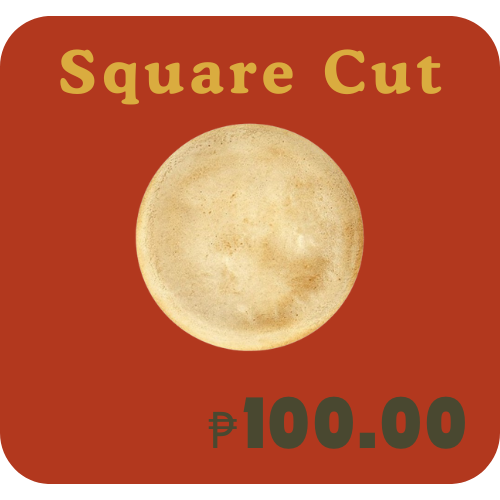
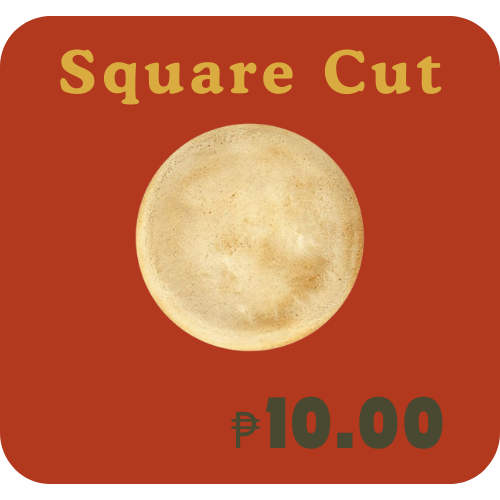
LYKA PROGRESS
Mga kulang pa:
1. Add to Shopping Cart
2. Add to Favorites

Changed region(s): [[0.42, 0.78, 0.93, 0.9]]

diff --git a/server/scripts/createPizza.js b/server/scripts/createPizza.js
@@ -10,6 +10,70 @@ document.addEventListener("DOMContentLoaded", function() {
     let currentPizzaSize = "400px"; // Default size
     const selectedToppings = {}; // Track selected toppings to toggle on/off
 
+    // Variables to store choices
+    let chosenCrust = '';
+    let chosenSize = '';
+    let chosenToppings = [];
+    let chosenSlice = '';
+
+    // Prices for options
+    const prices = {
+        crust: {
+            thickCrustC: 80.00,
+            thinCrustC: 100.00
+        },
+        size: {
+            smallC: 19.00,
+            regularC: 29.00,
+            largeC: 49.00,
+            familyC: 64.00
+        },
+        toppings: {
+            pepperoniC: 30.00,
+            mushroomC: 25.00,
+            pineappleC: 20.00,
+            olivesC: 25.00,
+            baconC: 35.00,
+            shrimpC: 40.00
+        },
+        slice: {
+            triangleC: 5.00,
+            squareC: 10.00
+        }
+    };
+
+    // Assign descriptions for each section's options
+    const optionDescriptions = {
+        crust: {
+            thickCrustC: "Thick Crust",
+            thinCrustC: "Thin Crust"
+        },
+        size: {
+            smallC: "Small Size",
+            regularC: "Regular Size",
+            largeC: "Large Size",
+            familyC: "Family-Size"
+        },
+        toppings: {
+            pepperoniC: "Pepperoni",
+            mushroomC: "Mushroom",
+            pineappleC: "Pineapple",
+            olivesC: "Olives",
+            baconC: "Bacon",
+            shrimpC: "Shrimp"
+        },
+        slice: {
+            triangleC: "Triangle Cut",
+            squareC: "Square Cut"
+        }
+    };
+
+    // Variables to track selections
+    let selectedCrustPrice = 0;
+    let selectedSizePrice = 0;
+    let selectedToppingsPrice = 0;
+    let selectedSlicePrice = 0;
+
     function updateProgressBar() {
         const progressPercentage = ((progressStep + 1) / totalSteps) * 100;
         progress.style.width = `${progressPercentage}%`;
@@ -94,15 +158,20 @@ document.addEventListener("DOMContentLoaded", function() {
 
     let selectedCrustImageSrc = '/img/pizzaur.png';
 
+    // Update crust selection
     thickCrustOption.addEventListener("click", () => {
+        chosenCrust = optionDescriptions.crust.thickCrustC;
         console.log('Thick Crust option is selected');
         selectedCrustImageSrc = '/img/pizzaur.png';
+        selectedCrustPrice = prices.crust.thickCrustC;
         changeImageWithRotation('/img/ThickCrust.png');
     });
 
     thinCrustOption.addEventListener("click", () => {
+        chosenCrust = optionDescriptions.crust.thinCrustC;
         console.log("Thin Crust option selected");
         selectedCrustImageSrc = '/img/pizzaurt.png';
+        selectedCrustPrice = prices.crust.thinCrustC;
         changeImageWithRotation('/img/ThinCrust.png');
     });
 
@@ -128,6 +197,8 @@ document.addEventListener("DOMContentLoaded", function() {
         option.addEventListener('click', () => {
             const section3PizzaContainer = document.querySelector('#section3 #pizza');
             const toppingSrc = getToppingImageSrc(option.id);
+            const toppingId = option.id.replace('Option', 'C');
+            const toppingName = optionDescriptions.toppings[toppingId];
 
             if (toppingSrc) {
                 if (selectedToppings[option.id]) {
@@ -135,7 +206,10 @@ document.addEventListener("DOMContentLoaded", function() {
                     const existingTopping = document.getElementById(`topping-${option.id}`);
                     if (existingTopping) {
                         section3PizzaContainer.removeChild(existingTopping);
+                        selectedToppingsPrice -= prices.toppings[toppingId];
+                        chosenToppings = chosenToppings.filter(t => t !== `${toppingName} (${toppingSrc})`);
                         delete selectedToppings[option.id];
+                        console.log(`Removed ${toppingId}, updated toppings price: ${selectedToppingsPrice}`);
                     }
                 } else {
                     // Add new topping
@@ -145,7 +219,10 @@ document.addEventListener("DOMContentLoaded", function() {
                     setToppingSize(toppingImage); // Adjust size based on current pizza size
                     toppingImage.id = `topping-${option.id}`;
                     section3PizzaContainer.appendChild(toppingImage);
+                    selectedToppingsPrice += prices.toppings[toppingId];
+                    chosenToppings.push(`${toppingName} (${toppingSrc})`);
                     selectedToppings[option.id] = true;
+                    console.log(`Added ${toppingId}, updated toppings price: ${selectedToppingsPrice}`);
                 }
             }
         });
@@ -177,11 +254,15 @@ document.addEventListener("DOMContentLoaded", function() {
         family: "480px"
     };
 
+    // Update size selection
     document.querySelectorAll('.size-option img').forEach(option => {
         option.addEventListener('click', () => {
-            const size = sizeOptions[option.id.replace('Option', '').toLowerCase()];
-            console.log(`${option.alt} size selected`);
-            changePizzaSize(size);
+            const sizeName = option.alt;
+            const sizeImage = option.src.split('/').pop();
+            chosenSize = `${optionDescriptions.size[sizeImage.split('.')[0]]}`;
+            console.log(`${sizeName} size selected`);
+            selectedSizePrice = prices.size[option.id.replace('Option', 'C')];
+            changePizzaSize(sizeOptions[option.id.replace('Option', '').toLowerCase()]);
         });
     });
 
@@ -255,31 +336,72 @@ document.addEventListener("DOMContentLoaded", function() {
         const squareOption = document.getElementById('squareOption');
 
         triangleOption.addEventListener('click', () => {
+            chosenSlice = optionDescriptions.slice.triangleC;
+            selectedSlicePrice = prices.slice.triangleC;
+            console.log('Triangle slice selected, price:', selectedSlicePrice);
             overlayCutImage(section4PizzaContainer, '/img/TriCut.png');
         });
 
         squareOption.addEventListener('click', () => {
+            chosenSlice = optionDescriptions.slice.squareC;
+            selectedSlicePrice = prices.slice.squareC;
+            console.log('Square slice selected, price:', selectedSlicePrice);
             overlayCutImage(section4PizzaContainer, '/img/SquCut.png');
         });
+    }
+
+    function updateReviewDetails() {
+        const tableBody = document.getElementById('review-table-body');
+        tableBody.innerHTML = ''; // Clear previous rows
+
+        const items = [
+            { item: 'Crust', specification: selectedCrustPrice === prices.crust.thickCrustC ? 'Thick' : 'Thin', price: selectedCrustPrice.toFixed(2) },
+            { item: 'Size', specification: selectedSizePrice === prices.size.smallC ? 'Small' : selectedSizePrice === prices.size.regularC ? 'Regular' : selectedSizePrice === prices.size.largeC ? 'Large' : 'Family', price: selectedSizePrice.toFixed(2) },
+            ...Object.keys(selectedToppings).map(topping => ({
+                item: 'Topping',
+                specification: topping.replace('Option', ''),
+                price: prices.toppings[topping.replace('Option', 'C')].toFixed(2)
+            })),
+            { item: 'Slice', specification: selectedSlicePrice === prices.slice.triangleC ? 'Triangle' : 'Square', price: selectedSlicePrice.toFixed(2) }
+        ];
+
+        items.forEach(item => {
+            const row = document.createElement('tr');
+            row.innerHTML = `
+                <td>${item.item}</td>
+                <td>${item.specification}</td>
+                <td>${item.price}</td>
+            `;
+            tableBody.appendChild(row);
+        });
+
+        const totalPrice = selectedCrustPrice + selectedSizePrice + selectedToppingsPrice + selectedSlicePrice;
+        const totalRow = document.createElement('tr');
+        totalRow.classList.add('total-price-row');
+        totalRow.innerHTML = `
+            <td colspan="2">Total Price</td>
+            <td>₱${totalPrice.toFixed(2)}</td>
+        `;
+        tableBody.appendChild(totalRow);
     }
 
     function updateSection5Image() {
         const section5PizzaContainer = document.querySelector('#section5 #pizza');
         section5PizzaContainer.innerHTML = ''; // Clear any existing elements
-    
+
         // Clone the current pizza image from Section 4 and add it to Section 5
         const section4PizzaImage = document.getElementById('custom-pizza4');
         const clonedPizzaImage = section4PizzaImage.cloneNode(true);
         clonedPizzaImage.id = 'custom-pizza5';
         section5PizzaContainer.appendChild(clonedPizzaImage);
-    
+
         // Clone each topping from Section 4 and add it to Section 5
         const section4Toppings = document.querySelectorAll('#section4 .topping-overlay');
         section4Toppings.forEach(topping => {
             const clonedTopping = topping.cloneNode(true);
             section5PizzaContainer.appendChild(clonedTopping);
         });
-    
+
         // Clone any cut overlay from Section 4 and add it to Section 5
         const section4CutOverlay = document.querySelector('#section4 .cut-overlay');
         if (section4CutOverlay) {
@@ -287,12 +409,19 @@ document.addEventListener("DOMContentLoaded", function() {
             section5PizzaContainer.appendChild(clonedCutOverlay);
         }
     }
-    
-    // Update Section 5 when moving to it
+
+    // Log final summary when moving to Section 5
     nextButtons.forEach(nextButton => {
         nextButton.addEventListener('click', () => {
             if (progressStep === 3) {
                 updateSection5Image();
+                updateReviewDetails();
+
+                // Log summary in Section 5
+                const formattedToppings = chosenToppings.map(topping => topping.split(' ')[0]); // Extracts just the topping names
+                const summarySentence = `You have selected ${chosenCrust}, ${chosenSize}, toppings (${formattedToppings.join(', ')}), and ${chosenSlice}.`;
+                console.log(summarySentence);
+
             }
         });
     });
@@ -314,7 +443,7 @@ document.addEventListener("DOMContentLoaded", function() {
         cutImage.style.transform = 'translate(-50%, -50%)';
         cutImage.style.width = '100%';
         cutImage.style.height = 'auto';
-        cutImage.style.zIndex = '3'; 
+        cutImage.style.zIndex = '3';
         container.appendChild(cutImage);
     }
 });

diff --git a/server/styles/createPizza.css b/server/styles/createPizza.css
@@ -122,6 +122,102 @@ img[id^="custom-pizza"] {
     margin: 0 auto; /* Center align */
 }
 
+.review-details {
+    display: flex;
+    justify-content: flex-start; /* Ensures the table aligns to the left */
+    margin-top: 10px; /* Adjust as needed */
+    margin-left: 150px; /* Use negative margin to move it further to the left */
+    width: 100%;
+    max-width: 800px; /* Adjust width as needed */
+    position: relative;
+    top: -30px; /* Adjust upward if needed */
+}
+
+
+/* Adjust font size, color, and alignment */
+.specification, .price {
+    flex: 1;
+    margin: 0 10px;
+    text-align: center; /* Change alignment here (e.g., left, right, center) */
+    background-color: #dfc997; /* Background color if needed */
+    border: 1px solid #b2381e;
+    padding: 15px;
+    border-radius: 10px;
+}
+
+.specification h3, .price h3 {
+    color: #3d5b3f; /* Change color as needed */
+    font-family: 'Goudy Bookletter 1911', serif;
+    margin-bottom: 10px;
+    font-size: 1.5rem; /* Adjust font size */
+}
+
+.specification p, .price p {
+    color: #3d5b3f; /* Change color as needed */
+    font-size: 1.2rem; /* Adjust font size */
+    line-height: 1.5; /* Adjust line height */
+    text-align: center; /* Change alignment here */
+}
+
+
+.styled-table {
+    width: 80%; /* Adjust width */
+    margin: 0; /* Remove top margin */
+    border-collapse: collapse;
+    font-family: Arial, sans-serif;
+    box-shadow: 0 0 10px rgba(0, 0, 0, 0.1);
+}
+
+.styled-table th, .styled-table td {
+    border: 1px solid #ddd;
+    padding: 10px;
+    text-align: center;
+}
+
+.styled-table th {
+    background-color: #b2381e;
+    color: #dfc997;
+    font-size: 1.1em;
+    font-family: 'Rubik', sans-serif;
+    font-weight: bold; /* Optionally make it bold */
+
+}
+
+.styled-table tr:nth-child() {
+    background-color: #dfc997;
+}
+
+.styled-table tr:last-child td {
+    color: #dfc997; /* Replace with your desired color */
+}
+
+
+.styled-table td {
+    font-size: 1em;
+    color: #3d5b3f;
+}
+
+.styled-table .total-price-row {
+    font-family: 'Rubik', sans-serif;
+    font-weight: bold; /* Optional: make the text bold */
+    font-weight: bold;
+    background-color: #b2381e;
+}
+
+.total-price {
+    margin-top: 20px;
+    text-align: center;
+}
+.total-price h3 {
+    color: #3d5b3f;
+    font-size: 1.5em;
+}
+.total-price p {
+    font-size: 1.3em;
+    color: #3d5b3f;
+}
+
+
 
 .rotate {
     transform: rotate(360deg); /* Rotate 360 degrees */

diff --git a/server/pages/createPizza.html b/server/pages/createPizza.html
@@ -136,7 +136,6 @@
                 </div>
             </section>
 
-            <!-- Section 5 -->
             <section id="section5" class="slide-section">
                 <div id="pizza">
                     <img id="custom-pizza5" src="/img/pizzaur.png" alt="Customize Pizza">
@@ -145,17 +144,27 @@
                     <div class="title-container">
                         <img src="/img/reviewpizza.png" alt="Review Pizza" class="title-image">
                     </div>
-                    <div class="review-options">
-                        <div>
-                            <img id="reviewOption" src="/img/reviewS.png" alt="Review Option" class="review-option">
-                        </div>
-                    </div>                    
+                    <div class="review-details">
+                        <table class="styled-table">
+                            <thead>
+                                <tr>
+                                    <th>Item</th>
+                                    <th>Specification</th>
+                                    <th>Price (₱)</th>
+                                </tr>
+                            </thead>
+                            <tbody id="review-table-body">
+                                <!-- Rows will be dynamically added here -->
+                            </tbody>
+                        </table>
+                    </div>
                     <div id="buttons">
                         <button id="back-page" class="order-button">BACK</button>
                         <button id="next-page" class="order-button">NEXT</button>
                     </div>
                 </div>
             </section>
+            
         </div>
     </main>
 
